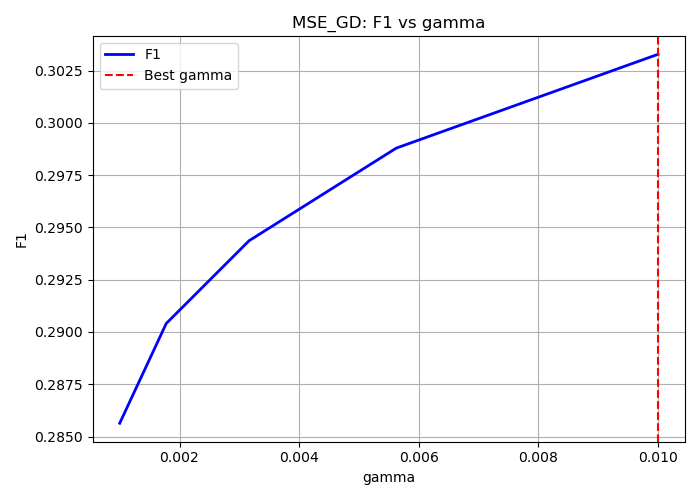
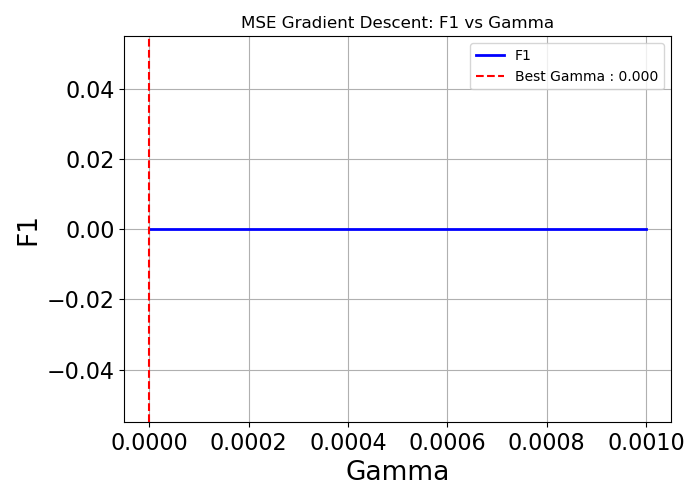
Plots and modif for plots

diff --git a/project1/run.py b/project1/run.py
@@ -299,9 +299,11 @@ def plot_and_save(x, y, xlabel, ylabel, color, filename, model_name, best_param)
     full_path = os.path.join(dir_path, filename)
     plt.figure(figsize=(7, 5))
     plt.plot(x, y, label=ylabel, linewidth=2, color=color)
-    plt.axvline(best_param, color="r", linestyle="--", label=f"Best {xlabel}")
-    plt.xlabel(xlabel)
-    plt.ylabel(ylabel)
+    plt.axvline(best_param, color="r", linestyle="--", label=f"Best {xlabel} : {best_param:.3f}")
+    plt.xlabel(xlabel,fontsize = 19)
+    plt.ylabel(ylabel,fontsize=19)
+    plt.xticks(fontsize=16) 
+    plt.yticks(fontsize=16)  
     plt.title(f"{model_name}: {ylabel} vs {xlabel}")
     plt.legend()
     plt.grid(True)
@@ -318,8 +320,8 @@ def train_mean_square_error_gd(
     x_train,
     x_test,
     test_ids,
-    gammas=np.logspace(-4, -1, 10),
-    max_iters=20,
+    gammas=np.logspace(-8, -1, 10),
+    max_iters=20000,
     k_fold=4,
     seed=42,
     save_plots=False,
@@ -436,21 +438,21 @@ def train_mean_square_error_gd(
         plot_and_save(
             gammas,
             mean_f1s,
-            "gamma",
+            "Gamma",
             "F1",
             "blue",
             "MSE_GD_F1_VS_gamma.png",
-            "MSE_GD",
+            "MSE Gradient Descent",
             best_gamma,
         )
         plot_and_save(
             gammas,
             mean_accs,
-            "gamma",
+            "Gamma",
             "Accuracy",
             "orange",
             "MSE_GD_acc_VS_gamma.png",
-            "MSE_GD",
+            "MSE Gradient Descent",
             best_gamma,
         )
 
@@ -460,7 +462,7 @@ def train_mean_square_error_sgd(
     x_train,
     x_test,
     test_ids,
-    gammas=np.logspace(-8, -3, 10),
+    gammas=np.logspace(-8, -1, 10),
     max_iters=20000,
     k_fold=4,
     seed=42,
@@ -578,21 +580,21 @@ def train_mean_square_error_sgd(
         plot_and_save(
             gammas,
             mean_f1s,
-            "gamma",
+            "Gamma",
             "F1",
             "blue",
             "MSE_SGD_F1_VS_gamma.png",
-            "MSE_SGD",
+            "MSE SGD",
             best_gamma,
         )
         plot_and_save(
             gammas,
             mean_accs,
-            "gamma",
+            "Gamma",
             "Accuracy",
             "orange",
             "MSE_SGD_acc_VS_gamma.png",
-            "MSE_SGD",
+            "MSE SGD",
             best_gamma,
         )
 
@@ -655,21 +657,21 @@ def train_least_squares(y_train, x_train, x_test, test_ids, save_plots=False):
         plot_and_save(
             thresholds,
             f1s,
-            "threshold",
+            "Threshold",
             "F1",
             "blue",
             "least_squares_F1_VS_threshold.png",
-            "Least_squares",
+            "Least squares",
             best_threshold,
         )
         plot_and_save(
             thresholds,
             accs,
-            "threshold",
+            "Threshold",
             "Accuracy",
             "orange",
             "least_squares_Accuracy_VS_threshold.png",
-            "Least_squares",
+            "Least squares",
             best_threshold,
         )
     # plot_and_save(thresholds, mean_losses, "Loss", "green", "least_squares_Loss_VS_threshold.png","Least_squares")
@@ -1002,7 +1004,7 @@ def train_logistic_regression(
         plot_and_save(
             gammas,
             f1_per_gamma,
-            "gamma",
+            "Gamma",
             "F1",
             "blue",
             "Log_Reg_F1_VS_gamma.png",
@@ -1103,7 +1105,7 @@ def train_ridge_regression(
         plot_and_save(
             lambdas,
             mean_f1s,
-            "lambda",
+            "Lambda",
             "F1",
             "blue",
             "Ridge_Reg_F1_VS_lambda.png",
@@ -1113,7 +1115,7 @@ def train_ridge_regression(
         plot_and_save(
             lambdas,
             mean_losses,
-            "lambda",
+            "Lambda",
             "Loss",
             "orange",
             "Ridge_Reg_Loss_VS_lambda.png",
@@ -1252,7 +1254,7 @@ x_train, y_train, x_test, train_ids, test_ids = prepare_data2(
     outlier_strategy="smart",
     fill_method="mode",
 )
-train_least_squares(y_train, x_train, x_test, test_ids, save_plots=True)
+#train_least_squares(y_train, x_train, x_test, test_ids, save_plots=True)
 # train_reg_logistic_regression(y_train,x_train,x_test,test_ids,max_iters=5000,lambdas=[1e-6],gammas=[0.1], threshold=0.2, k_fold=4, save_plots=True)
 # threshold: 0.5     #smart, median: F1: 0.4296                       #aggressive, median: F1 : 0.4293           #smart, mode: F1: 0.4298                #none, mode: F1: 0.4229
 # threshold: 0.8     #smart, median: F1: 0.4314                       #smart, median: F1 : 0.4309                #std (threshold=5), mode: F1: 0.4304
@@ -1262,3 +1264,6 @@ train_least_squares(y_train, x_train, x_test, test_ids, save_plots=True)
 
 # x_train,y_train,x_test,train_ids, test_ids = prepare_data(threshold_features = 0.5,threshold_points = 0.5, normalize = True, remove_outliers = False, aberrant_threshold=1000)
 # train_reg_logistic_regression(y_train,x_train,x_test,test_ids,max_iters=2000,lambdas=[1e-6],gammas=[0.1], threshold=0.2, k_fold=4)                            #F1 : 0.413
+
+train_mean_square_error_gd(y_train,x_train,x_test,test_ids,gammas=np.logspace(-8,-3,10),max_iters=1000,save_plots=True)
+#train_mean_square_error_sgd(y_train,x_train,x_test,test_ids,save_plots=True)

diff --git a/project1/implementations.py b/project1/implementations.py
@@ -18,7 +18,6 @@ def _mse_loss(y: np.ndarray, tx: np.ndarray, w: np.ndarray) -> float:
     e = y - tx @ w
     return 0.5 * np.mean(e * e)
 
-
 def _mse_grad(y: np.ndarray, tx: np.ndarray, w: np.ndarray) -> np.ndarray:
     """
     Gradient of the average MSE:
@@ -66,7 +65,6 @@ def _logistic_grad(y: np.ndarray, tx: np.ndarray, w: np.ndarray) -> np.ndarray:
 #                       STEP 1 : ML METHODS
 # ===========================================================
 
-
 def mean_squared_error_gd(
     y: np.ndarray, tx: np.ndarray, initial_w: np.ndarray, max_iters: int, gamma: float
 ):
@@ -85,7 +83,6 @@ def mean_squared_error_gd(
         w -= gamma * grad
 
     return w, _mse_loss(y, tx, w)
-
 
 def mean_squared_error_sgd(
     y: np.ndarray, tx: np.ndarray, initial_w: np.ndarray, max_iters: int, gamma: float
